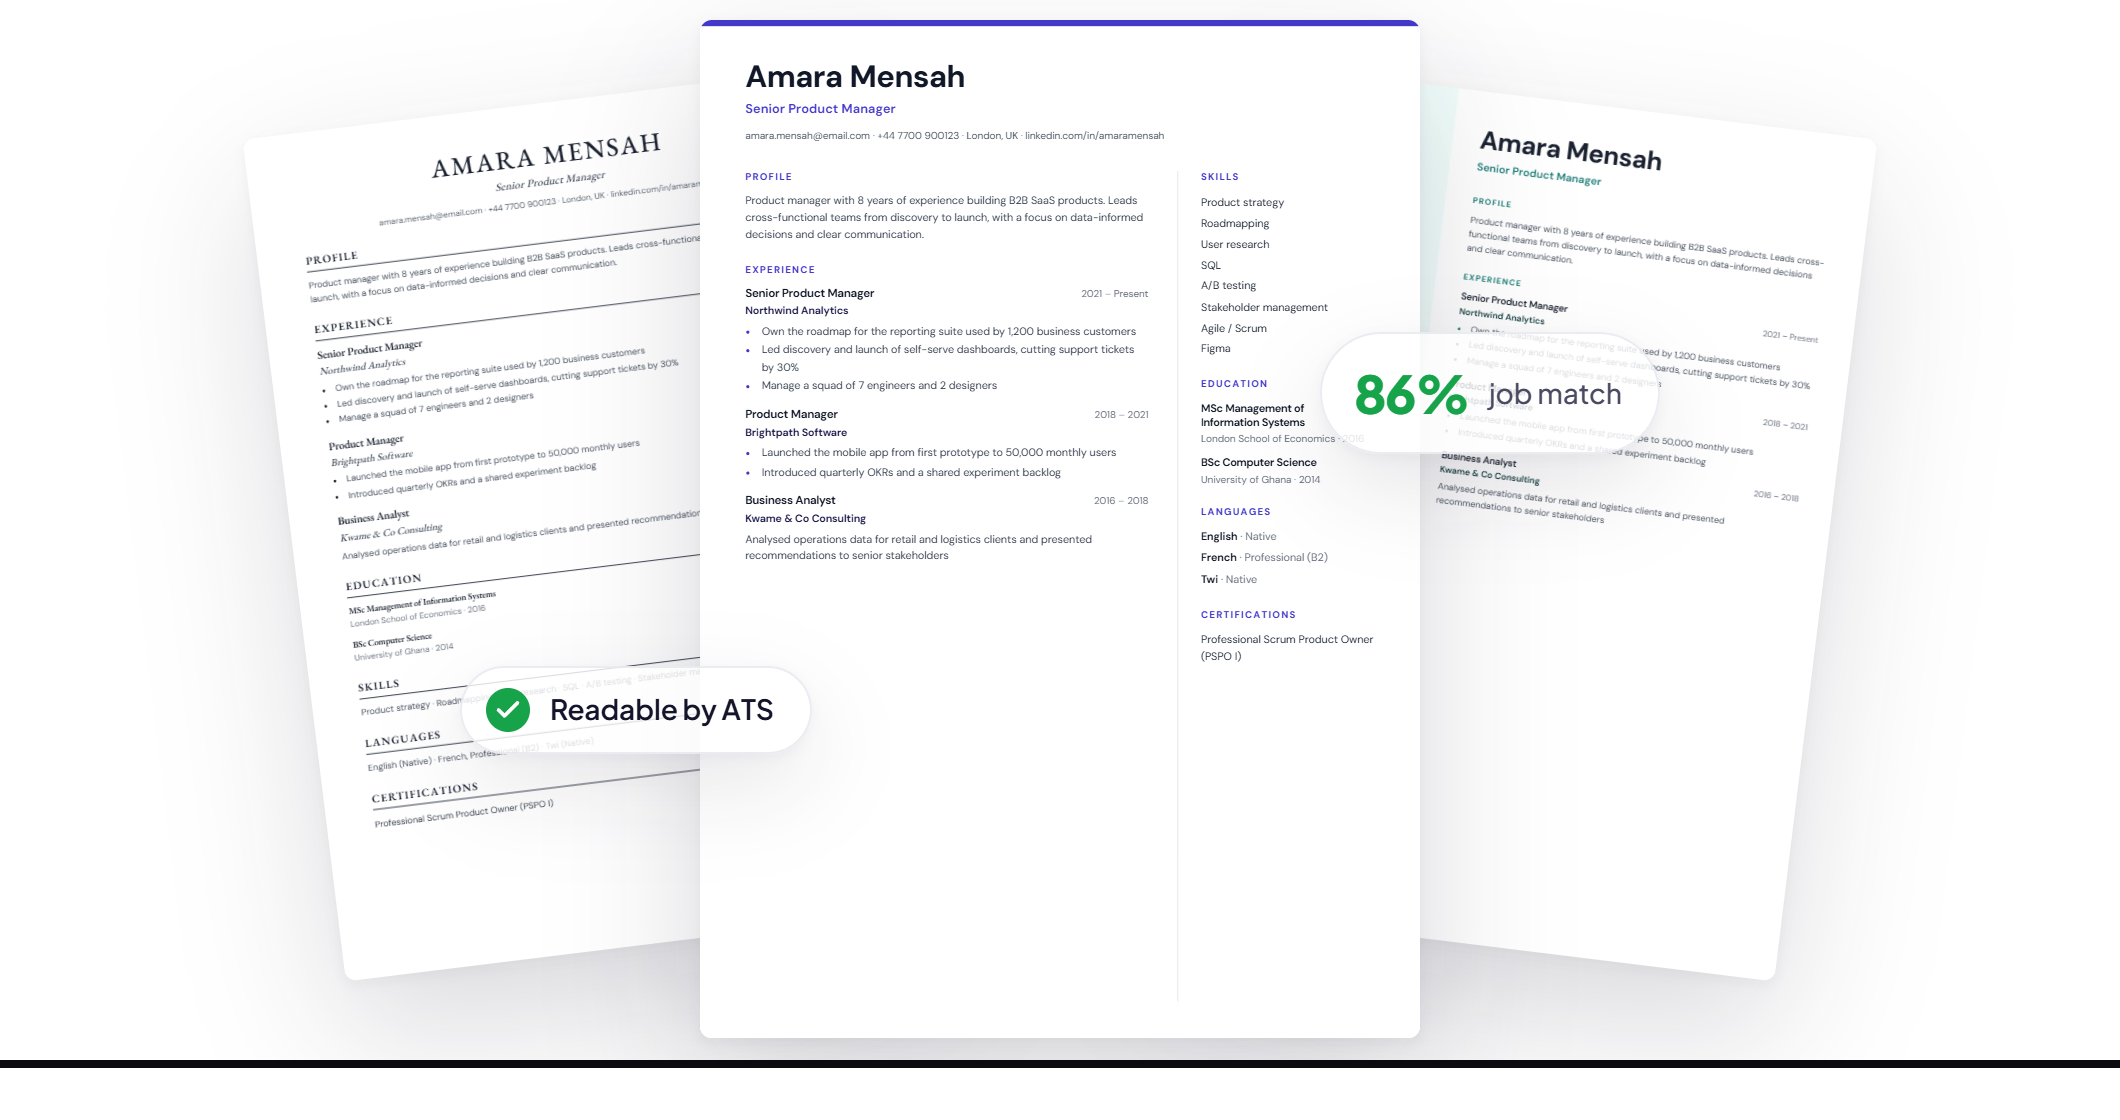
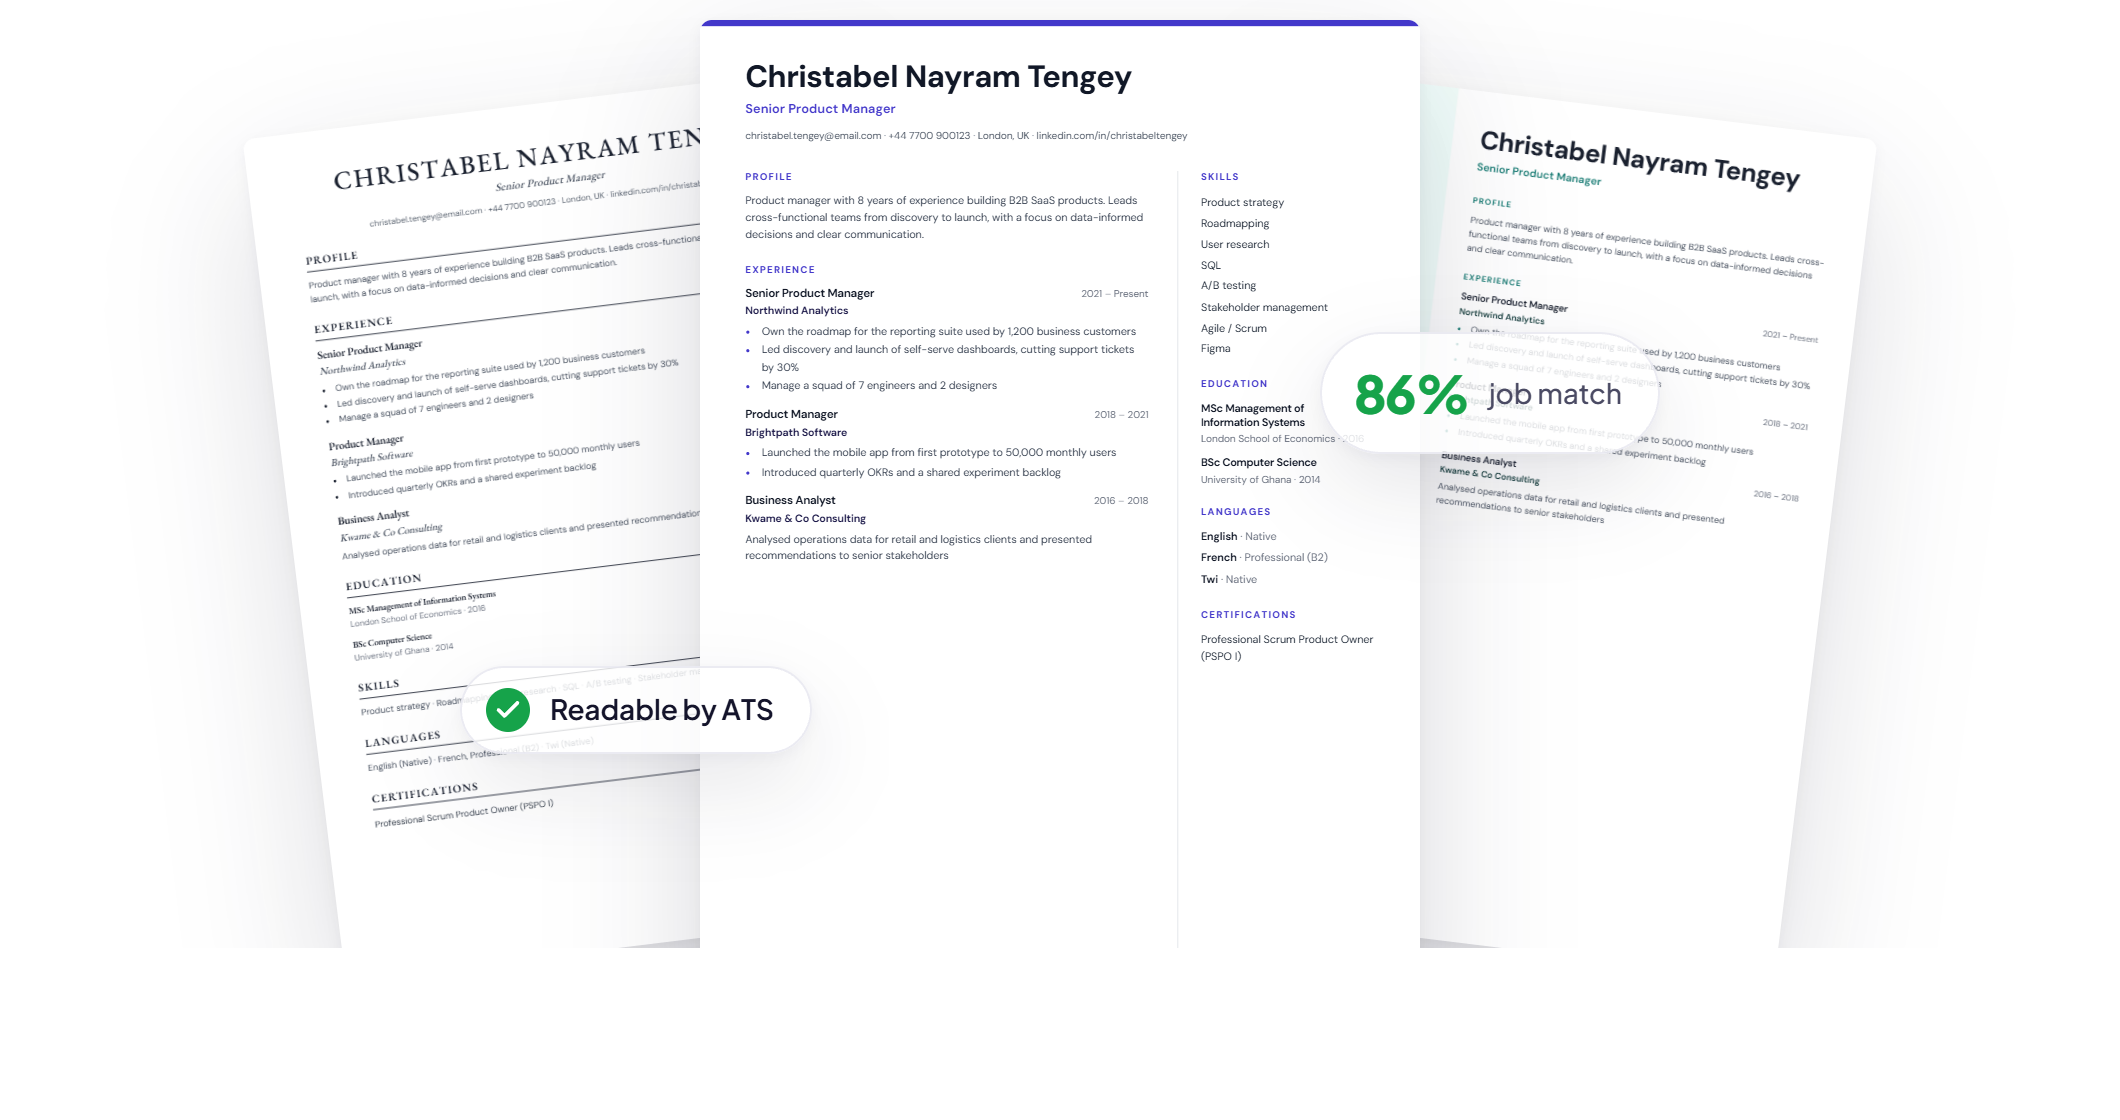
Sample CV name Christabel Nayram Tengey, new share image; faster writing check

diff --git a/craftcv/server/index.js b/craftcv/server/index.js
@@ -448,7 +448,7 @@ function ensureAiTables() {
 // uses; the network as a whole has a daily cap so clearing cookies can't get unlimited AI.
 const AI_GUEST_NETWORK_PER_DAY = 200;
 const GID = /^[a-f0-9]{32}$/;
-app.use(['/api/ai/', '/api/cv/upload', '/api/guest/'], (req, res, next) => {
+app.use(['/api/ai/', '/api/cv/upload', '/api/guest/', '/api/proofread'], (req, res, next) => {
   if (!GID.test(req.cookies?.cvm_gid || '')) {
     const g = randomBytes(16).toString('hex');
     res.cookie('cvm_gid', g, { httpOnly: true, secure: IS_PROD, sameSite: 'lax', domain: IS_PROD ? '.cvmaster.live' : undefined, maxAge: 365 * 864e5 });
@@ -2009,7 +2009,8 @@ const PROOF_FIELDS = { summary: 'a CV profile summary', seeking: 'what the perso
 const proofCache = new Map();
 const proofDaily = new Map();   // person → { day, n }
 const PROOF_PER_DAY = 400;
-app.post('/api/ai/proofread', async (req, res) => {
+// Its own route (not under /api/ai/), so checking while someone types fast never hits the AI rate limit
+app.post('/api/proofread', rateLimit({ windowMs: 60 * 1000, max: perPerson(120, 900), keyGenerator: sessionKey, standardHeaders: true, legacyHeaders: false }), async (req, res) => {
   try {
     const text = typeof req.body?.text === 'string' ? req.body.text.slice(0, 4000) : '';
     if (text.trim().length < 8) return res.json({ issues: [] });
@@ -4180,11 +4181,11 @@ app.post('/api/reviews', authMiddleware, rateLimit({ windowMs: 60 * 60 * 1000, m
     const comment = String(req.body?.comment || '').trim().slice(0, 600) || null;
     const drafts = (await query('SELECT COUNT(*)::int AS n FROM drafts WHERE user_id = $1', [req.user.sub])).rows[0].n;
     if (!drafts) return res.status(403).json({ error: 'Make a CV first, then tell us how it went.' });
-    // Name for the review, plus the job title from their latest CV ("Amara M., Product Manager")
+    // Name for the review, plus the job title from their latest CV ("Christabel T., Product Manager")
     const u = (await query(
       `SELECT u.name, (SELECT d.cv_data->>'title' FROM drafts d WHERE d.user_id = u.id ORDER BY d.updated_at DESC LIMIT 1) AS title
        FROM users u WHERE u.id = $1`, [req.user.sub])).rows[0] || {};
-    // Shown as "Amara M." — first name and initial only
+    // Shown as "Christabel T." — first name and initial only
     const parts = String(u.name || 'CVMaster user').trim().split(/\s+/);
     const displayName = parts.length > 1 ? `${parts[0]} ${parts[parts.length - 1][0].toUpperCase()}.` : parts[0];
     const prev = (await query('SELECT id, rating, comment, status FROM reviews WHERE user_id = $1', [req.user.sub])).rows[0];

diff --git a/craftcv/src/views/Landing.vue b/craftcv/src/views/Landing.vue
@@ -234,7 +234,7 @@
         <div class="lp-ref-art" aria-hidden="true" inert v-reveal="120">
           <div class="lp-ref-card">
             <div class="lp-ref-card-hd"><span class="lp-ref-gift"><svg viewBox="0 0 24 24"><polyline points="20 12 20 22 4 22 4 12" /><rect x="2" y="7" width="20" height="5" rx="1" /><line x1="12" y1="22" x2="12" y2="7" /><path d="M12 7H7.5a2.5 2.5 0 010-5C11 2 12 7 12 7z" /><path d="M12 7h4.5a2.5 2.5 0 000-5C13 2 12 7 12 7z" /></svg></span>{{ $t('Your invite link') }}</div>
-            <div class="lp-ref-link">cvmaster.live/invite/AMARA</div>
+            <div class="lp-ref-link">cvmaster.live/invite/CHRISTABEL</div>
             <div class="lp-ref-share"><span>WhatsApp</span><span>{{ $t('Email') }}</span><span class="pri">{{ $t('Copy') }}</span></div>
             <div class="lp-ref-stats"><div><b>3</b><span>{{ $t('friends joined') }}</span></div><div><b>2</b><span>{{ $t('free CVs earned') }}</span></div></div>
           </div>

diff --git a/craftcv/src/composables/sampleCv.js b/craftcv/src/composables/sampleCv.js
@@ -1,9 +1,9 @@
 // Fictional example CV used for template thumbnails and the landing page.
 import { lang as uiLang } from '../i18n/index.js'
 export const SAMPLE_CV = {
-  fn: 'Amara', ln: 'Mensah', title: 'Senior Product Manager',
-  email: 'amara.mensah@email.com', phone: '+44 7700 900123', loc: 'London, UK',
-  li: 'linkedin.com/in/amaramensah', website: '', photo: null, lang: 'en',
+  fn: 'Christabel Nayram', ln: 'Tengey', title: 'Senior Product Manager',
+  email: 'christabel.tengey@email.com', phone: '+44 7700 900123', loc: 'London, UK',
+  li: 'linkedin.com/in/christabeltengey', website: '', photo: null, lang: 'en',
   sum: 'Product manager with 8 years of experience building B2B SaaS products. Leads cross-functional teams from discovery to launch, with a focus on data-informed decisions and clear communication.',
   experiences: [
     { id: 1, title: 'Senior Product Manager', company: 'Northwind Analytics', period: '2021 – Present',

diff --git a/craftcv/src/components/ProofField.vue b/craftcv/src/components/ProofField.vue
@@ -89,7 +89,7 @@ async function check() {
   if (cache.has(key)) { issues.value = cache.get(key); return }
   ctl?.abort(); ctl = new AbortController()
   try {
-    const r = await fetch((import.meta.env.VITE_API_URL || '') + '/api/ai/proofread', {
+    const r = await fetch((import.meta.env.VITE_API_URL || '') + '/api/proofread', {
       method: 'POST', credentials: 'include', signal: ctl.signal,
       headers: { 'Content-Type': 'application/json' },
       body: JSON.stringify({ text, kind: props.kind, field: props.kind, lang: store.data.lang, uiLang: uiLang.value }),
@@ -106,7 +106,7 @@ function onInput(e) {
   emit('update:modelValue', e.target.value)
   issues.value = relocate(e.target.value, issues.value)
   onCaret(e)
-  schedule(1400)
+  schedule(450)
 }
 function onBlur() { focused.value = false; schedule(150) }
 function onCaret(e) { caret.value = e?.target?.selectionStart ?? -1; nextTick(syncScroll) }
